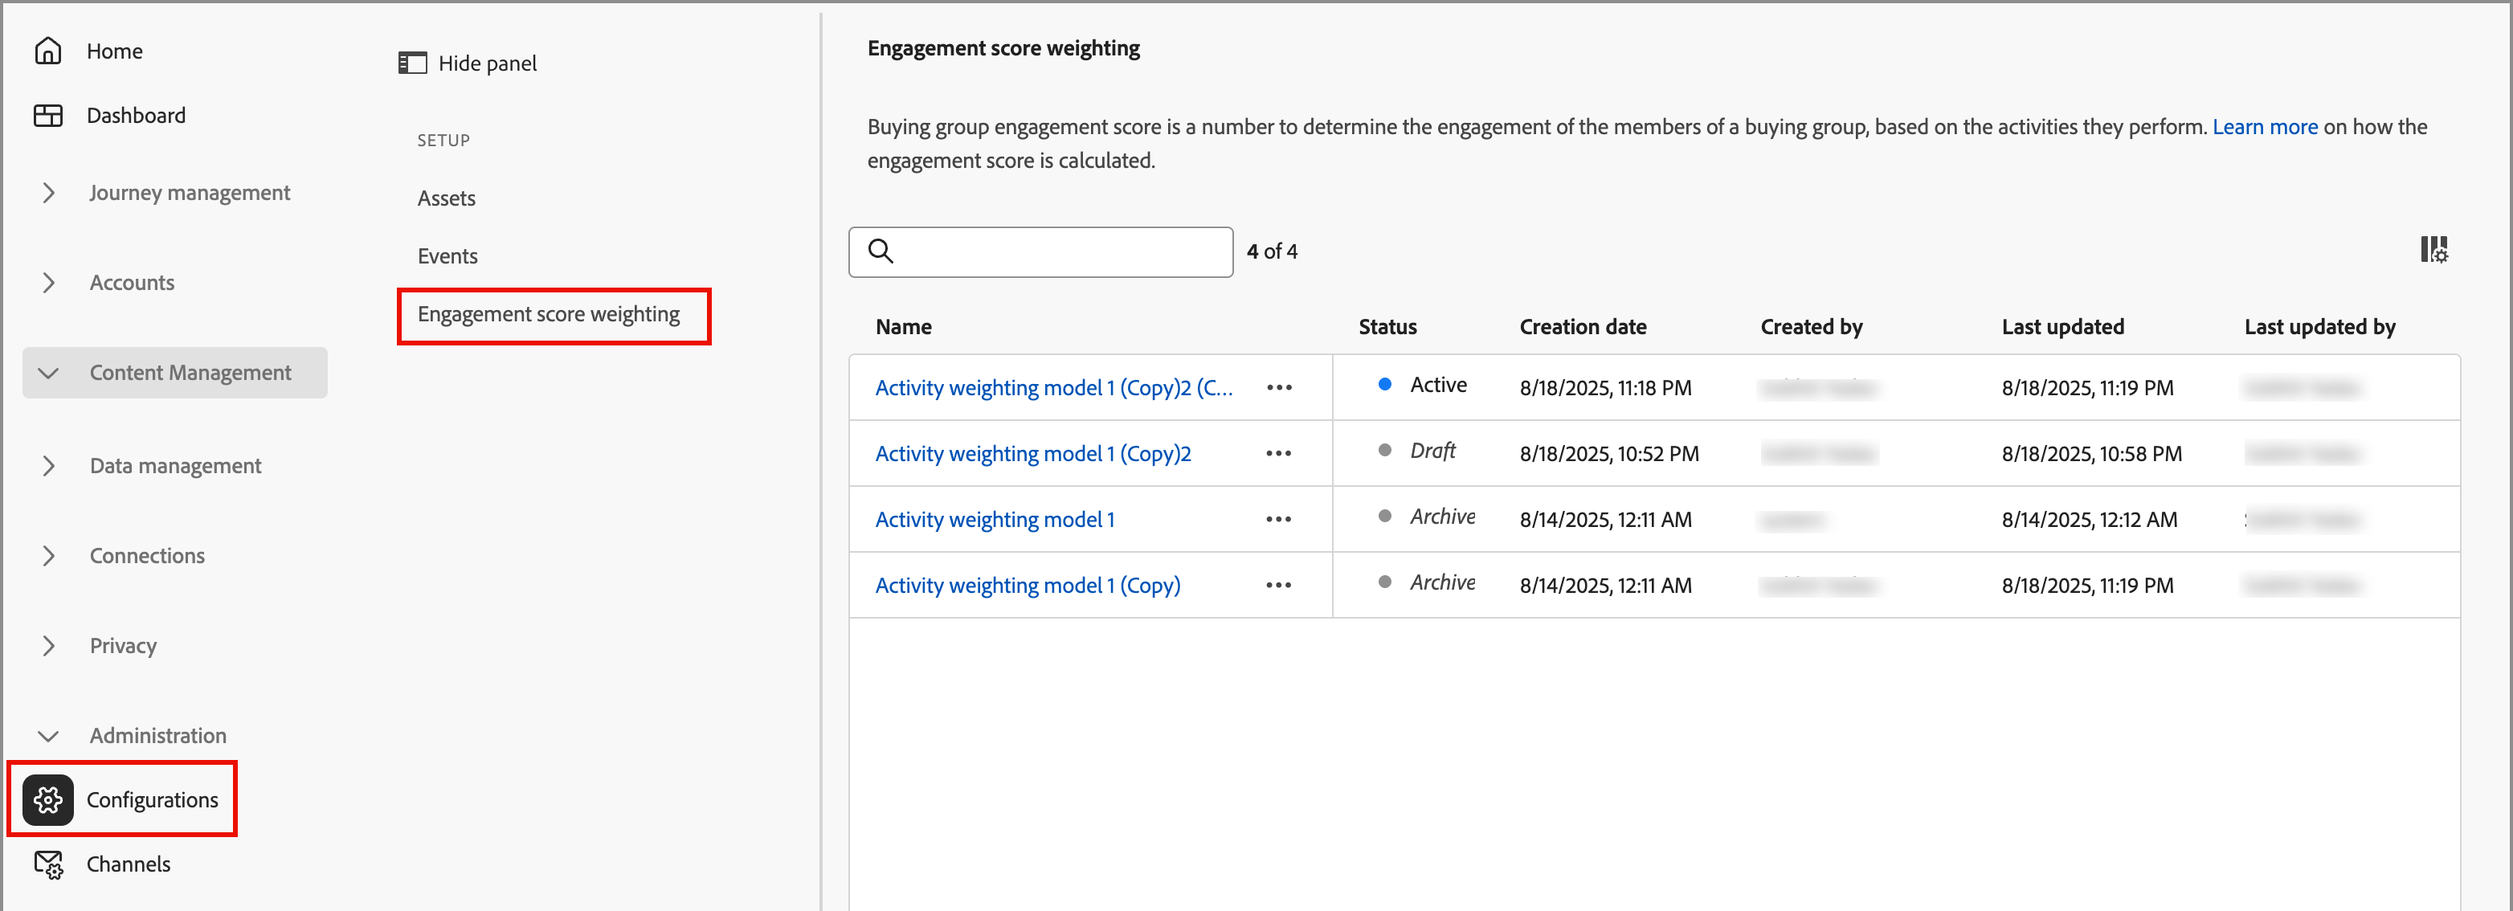
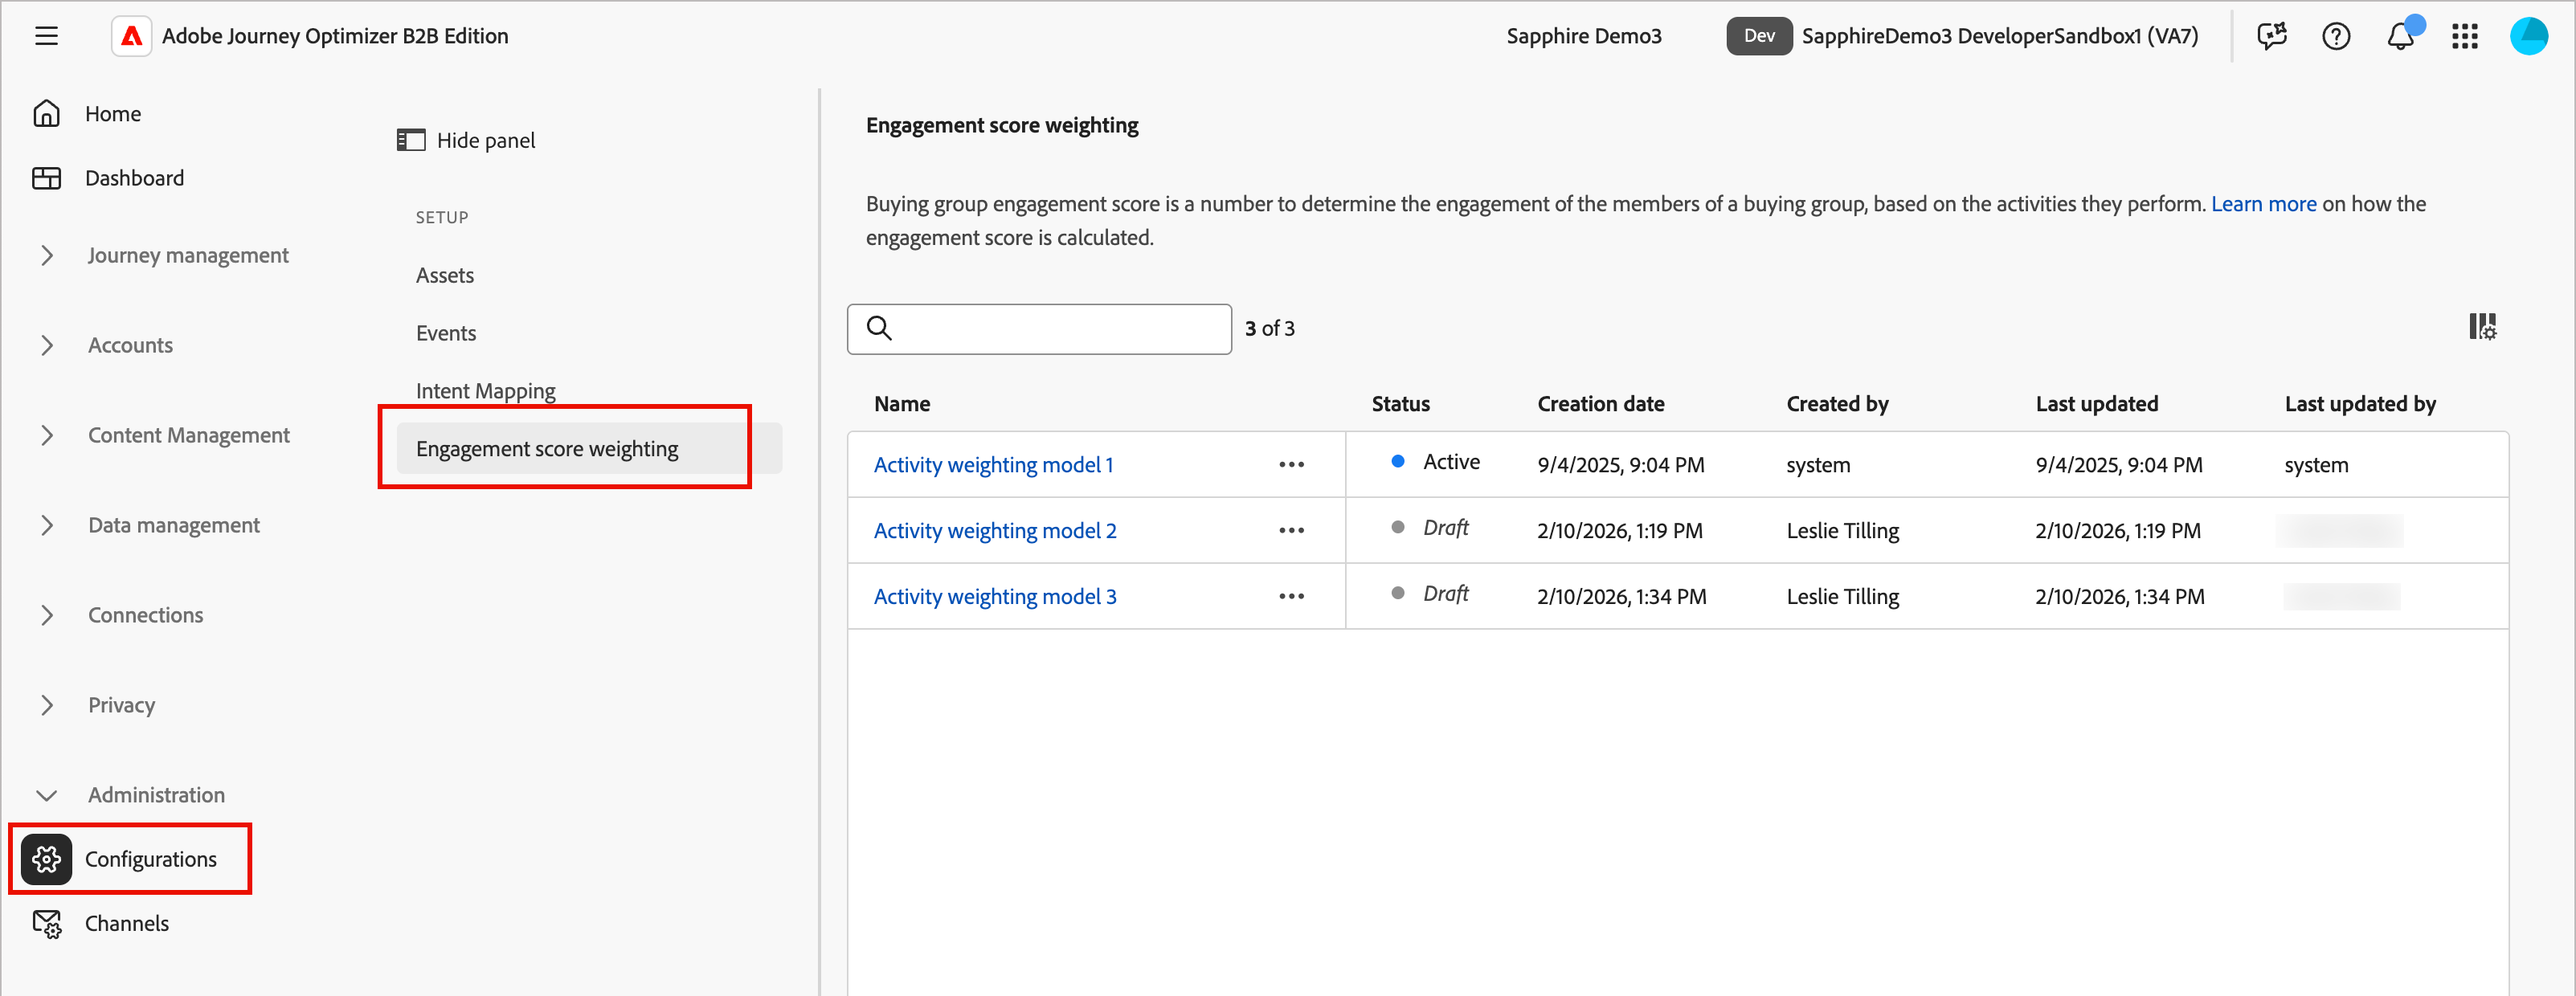
SPHR-21220, update engagement score weighting for M1.5

diff --git a/help/user/admin/engagement-score-weighting.md b/help/user/admin/engagement-score-weighting.md
@@ -1,17 +1,23 @@
 ---
 title: Configure Engagement Score Weighting
-description: Create custom engagement score models with weighted activities to measure buying group engagement and intent accurately in Journey Optimizer B2B Edition.
+description: Create custom engagement score models with weighted activities to measure buying group engagement and intent accurately in [!DNL Journey Optimizer B2B Edition].
 feature: Setup, Engagement, Buying Groups
 role: Admin
 exl-id: 50d79d31-5ad8-41ed-a62b-4aa2ed9e837f
 ---
 # Configure custom engagement score weighting
 
-A buying group engagement score reflects the level of engagement by evaluating various activities recorded for members of the buying group. With custom score weighting, marketing operations teams have the flexibility to define their own models for weighting the activities that are most meaningful for engagement. A custom scoring model produces a more accurate reflection of your pipeline by prioritizing the behaviors that most accurately signal buying intent in your sales process.
+A [buying group engagement score](../buying-groups/engagement-scores.md) reflects the level of engagement by evaluating various activities recorded for members of the buying group. With custom score weighting, marketing operations teams have the flexibility to define their own models for weighting the activities. A custom scoring model produces a more accurate reflection of your pipeline by prioritizing the behaviors that most accurately signal buying intent in your sales process.
 
 As an administrator, you can define multiple engagement score models for your organization, but only one model can be active at any one time. You define a score model according to the weight applied to each engagement scoring activity.
 
+>[!PREREQUISITES]
+>
+>To define and activate an engagement score weighting model, you must have the _[!UICONTROL Manage B2B Admin Configurations]_ [product permission](./user-management.md#b2b-product-permissions).
+
 ## Access the engagement score weighting models
+
+Open the _[!UICONTROL Engagement score weighting]_ list to view active, draft, and archived models:
 
 1. In the left navigation, choose **[!UICONTROL Administration]** > **[!UICONTROL Configurations]**.
 
@@ -19,9 +25,9 @@ As an administrator, you can define multiple engagement score models for your or
 
    From this page, you can [create (duplicate)](#create-an-engagement-score-model), [activate](#activate-a-score-model), and [edit](#change-the-engagement-weighting-settings) engagement score models.
 
-    ![Access the configured event definitions](./assets/configuration-engagement-scoring-list.png){width="800" zoomable="yes"}
+    ![Access the defined engagement score models](./assets/configuration-engagement-scoring-list.png){width="800" zoomable="yes"}
 
-   The table displays the most recently updated models at the top (sorted by _[!UICONTROL Last updated]_) and includes the ability to search by _[!UICONTROL Name]_.
+   The list displays the most recently updated models at the top (sorted by _[!UICONTROL Last updated]_) and includes the ability to search by _[!UICONTROL Name]_.
 
    You can customize the displayed table by clicking the _Column settings_ ( ![Column settings](../assets/do-not-localize/icon-column-settings.svg) ) icon in the top-right corner and selecting or clearing the column checkboxes.
 
@@ -31,9 +37,17 @@ As an administrator, you can define multiple engagement score models for your or
 
 ### Default score model
 
-The system creates an initial engagement score model named _Activity weighting model 1_, which is the active model until you create your own custom model and activate it. When you activate your custom model, the default model changes to an _Archived_ status. You can duplicate it if you decide to revert back to the default engagement score model, or to use it as a starting point for another custom model.
+The system creates an initial engagement score model named _Activity weighting model 1_. The model status and engagement activities depend on the data architecture for your [!DNL Journey Optimizer B2B Edition] environment:
 
-![Default engagement score weighting model](./assets/configuration-engagement-scoring-model-default.png){width="600" zoomable="yes"}
+* **Simplified architecture** (Beta) - If your environment uses the [simplified architecture](../simplified-architecture.md), the engagement activities are based on standard and custom Experience Platform events. The weights on all activities are 0 by default.
+
+   ![Default engagement score weighting model for the simplified architecture](./assets/configuration-engagement-scoring-model-default.png){width="600" zoomable="yes"}
+
+* **Standard architecture** - If your environment uses the standard architecture, the connected [!DNL Marketo Engage] instance is the source for the engagement activity data. The default model is active until you create a custom version and activate it.
+
+   ![Default engagement score weighting model for the standard architecture](./assets/configuration-engagement-scoring-model-default-me.png){width="600" zoomable="yes"}
+
+When you activate a custom model, the active model changes to an _Archived_ status. If you decide to revert back to the default engagement score model, you can duplicate the original default model and then activate it or use it as a starting point for another custom model.
 
 ### Delete a draft model
 
@@ -82,19 +96,46 @@ The weight settings define the bands that you can assign to each activity in the
 
    Enter the name and set the value for the band. Make sure to use a unique name and value.
 
-1. If needed, remove a weighting band, click the _Delete_ ( ![Delete icon](../assets/do-not-localize/icon-delete-outline.svg) ) icon for the weighting band row.
+1. To remove a weighting band, click the _Delete_ ( ![Delete icon](../assets/do-not-localize/icon-delete-outline.svg) ) icon for the weighting band row.
 
 1. When your changes are complete, click **[!UICONTROL Save]**.
 
 ### Change the activity weighting
 
-Each score model includes the full list of supported engagement score activities:
+Each score model includes the full list of supported engagement score activities.
 
-{{engagement-activities}}
++++Activities for simplified architecture
+
+The default model for the simplified architecture includes the Experience Platform tracked activities. Each activity has a zero (0) weight (not used) until you assign a weight to it. All activities also have a maximum daily frequency of 20, which you cannot change.
+
+<table style="table-layout: fixed; width: 100%; border: 0;">
+<tbody>
+<tr style="border: 0;">
+<td>
+<ul><li>Advertising Clicks </li><li>Advertising Completes </li><li>Advertising Conversions </li><li>Advertising Federated </li><li>Advertising First Quartiles </li><li>Advertising Impressions </li><li>Advertising Midpoints </li><li>Advertising Starts </li><li>Advertising Third Quartiles </li><li>Advertising Time Played </li><li>Application Close </li><li>Application Launch </li><li>Change Engagement Campaign Cadence </li><li>Commerce Backoffice CreditMemo Issued </li><li>Commerce Backoffice Order Cancelled </li><li>Commerce Backoffice Order Placed </li><li>Commerce Backoffice OrderItems Shipped </li><li>Commerce Backoffice Shipment Completed </li><li>Commerce Checkouts </li><li>Commerce Product List (Cart) Adds </li><li>Commerce Product List (Cart) Opens </li><li>Commerce Product List (Cart) Removals </li><li>Commerce Product List (Cart) Reopens </li><li>Commerce Product List (Cart) Views </li><li>Commerce Product Views </li><li>Commerce Purchases </li><li>Commerce Save For Laters </li></ul>
+</td>
+<td>
+<ul><li>Decisioning Proposition Dismiss </li><li>Decisioning Proposition Display </li><li>Decisioning Proposition Interact </li><li>Decisioning Proposition Send </li><li>Decisioning Proposition Trigger </li><li>Delivery Feedback </li><li>Direct Marketing Email Bounced </li><li>Direct Marketing Email Bounced Soft </li><li>Direct Marketing Email Clicked </li><li>Direct Marketing Email Delivered </li><li>Direct Marketing Email Opened </li><li>Direct Marketing Email Sent </li><li>Direct Marketing Email Unsubscribed </li><li>Inapp message was dismissed </li><li>Inapp message was displayed </li><li>Inapp message was interacted with </li><li>Lead Operation Add To Campaign </li><li>Lead Operation Call Webhook </li><li>Lead Operation Change Campaign Stream </li><li>Lead Operation Convert Lead </li><li>Lead Operation Interesting Moment </li><li>Lead Operation Merge Leads </li><li>Lead Operation New Lead </li><li>Lead Operation Revenue Stage changed </li><li>Lead Operation Score Changed </li><li>Lead Operation Status in Campaign Progression Changed </li><li>Lead Operation Add To List </li><li>Lead Operation Remove From List
+</td>
+<td>
+<ul><li>Location exit </li><li>Media adBreakComplete </li><li>Media adBreakStart </li><li>Media adComplete </li><li>Media adSkip </li><li>Media adStart </li><li>Media bitrateChange </li><li>Media bufferStart </li><li>Media chapterComplete </li><li>Media chapterSkip </li><li>Media chapterStart </li><li>Media custom tracking </li><li>Media downloaded content </li><li>Media error </li><li>Media pauseStart </li><li>Media ping </li><li>Media play </li><li>Media sessionComplete </li><li>Media sessionEnd </li><li>Media sessionStart </li><li>Media statesUpdate </li><li>Message Feedback </li><li>Message Rendering Data </li><li>Message Tracking </li><li>Opportunity Event Add To Opportunity </li><li>Opportunity Event Opportunity Updated </li><li>Opportunity Event Remove From Opportunity </li><li>Push Tracking Application Opened </li><li>Push Tracking Custom Action </li><li>Web Form Filled Out </li><li>Web Webinteraction Link Clicks </li><li>Web Webpagedetails Page Views</li></ul>
+</td>
+</tbody>
+</table>
+
++++
+
++++Activities for standard architecture
+
+The default model for the standard architecture includes the [!DNL Marketo Engage] tracked activities with an associated default weight. When you duplicate this model, you can change the weighting according to your needs. You cannot change the maximum daily frequency. 
+
+{{engagement-activities-me}}
+
++++
 
 For each activity in the list, set the value that you want to assign to each activity occurrence. Click the down arrow in the **[!UICONTROL Weighting]** field and choose the weighting band as defined in the engagement weighting settings.
 
-![Set activity weighting](./assets/configuration-engagement-scoring-model-set-activity-weighting.png){width="500"}  
+![Set activity weighting](./assets/configuration-engagement-scoring-model-set-activity-weighting.png){width="600" zoomable="yes"} 
 
 If you do not want the engagement score calculation to use an activity, set the weighting to a zero (0) value.
 
@@ -110,4 +151,4 @@ When you activate a draft score model, it replaces the currently active model. T
 
 1. In the confirmation dialog, click **[!UICONTROL Activate]**.
 
-   ![Access the configured event definitions](./assets/configuration-engagement-scoring-activate-dialog.png){width="400"}
+   ![Activate engagement score weighting confirmation dialog](./assets/configuration-engagement-scoring-activate-dialog.png){width="400"}

diff --git a/help/_includes/snippets.md b/help/_includes/snippets.md
@@ -257,15 +257,15 @@ The file names of the selected images are displayed in the dialog. Asset file na
 
 Click **[!UICONTROL Import]**.
 
-## Engagement score activities {#engagement-activities}
+## Engagement score activities - Marketo {#engagement-activities-me}
 
-| Activity name | Description | Engagement type | Max daily frequency count | Default model activity weight |
-| --- | --- | --- | --- | --- |
-| [!UICONTROL Attend Event] | A member attended an event | Event | 20 | 60 |
-| [!UICONTROL Email Clicked] | A member clicks a link in an email | Email | 20 | 30 |
-| [!UICONTROL Email Opened] | A member opens an email | Email | 20 | 30 |
-| [!UICONTROL Form Filled Out]| A member fills and submits a form on a web page | Web | 20 | 40 |
-| [!UICONTROL Interesting Moment] | A member has an interesting moment | Curated | 20 | 60 |
-| [!UICONTROL Link Clicks] | A member clicks a link on a web page | Web | 20 | 40 |
-| [!UICONTROL Page Views]| A member views a web page | Web | 20 | 40 |
-| [!UICONTROL Register for Event] | A member registered for an event | Event | 20 | 60 |
+| Activity name | Description | Max daily frequency count | Default model activity weight |
+| --- | --- | --- | --- |
+| [!UICONTROL Attend Event] | A member attended an event | 20 | 60 |
+| [!UICONTROL Email Clicked] | A member clicks a link in an email | 20 | 30 |
+| [!UICONTROL Email Opened] | A member opens an email | 20 | 30 |
+| [!UICONTROL Form Filled Out]| A member fills and submits a form on a web page | 20 | 40 |
+| [!UICONTROL Interesting Moment] | A member has an interesting moment | 20 | 60 |
+| [!UICONTROL Link Clicks] | A member clicks a link on a web page | 20 | 40 |
+| [!UICONTROL Page Views]| A member views a web page | 20 | 40 |
+| [!UICONTROL Register for Event] | A member registered for an event | 20 | 60 |
